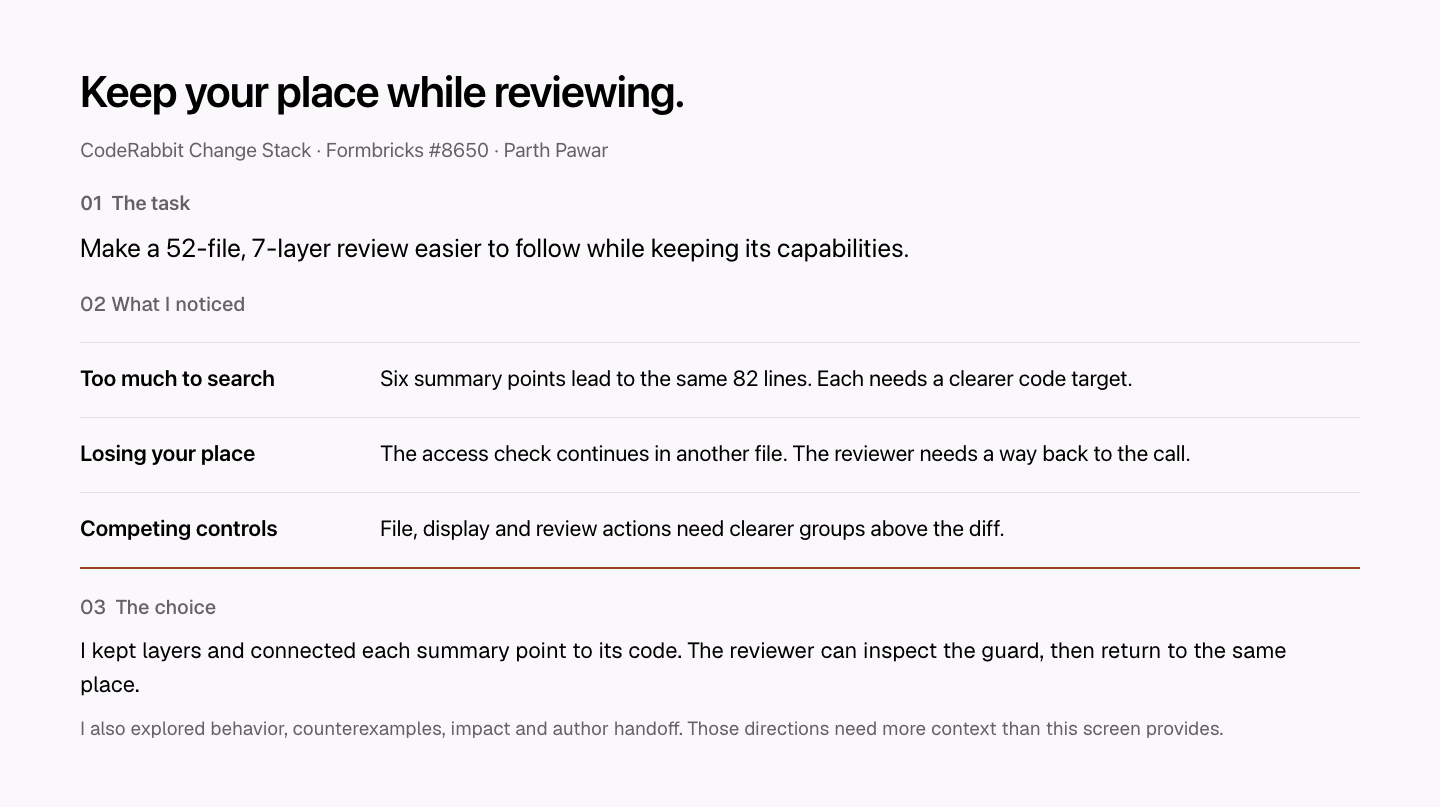
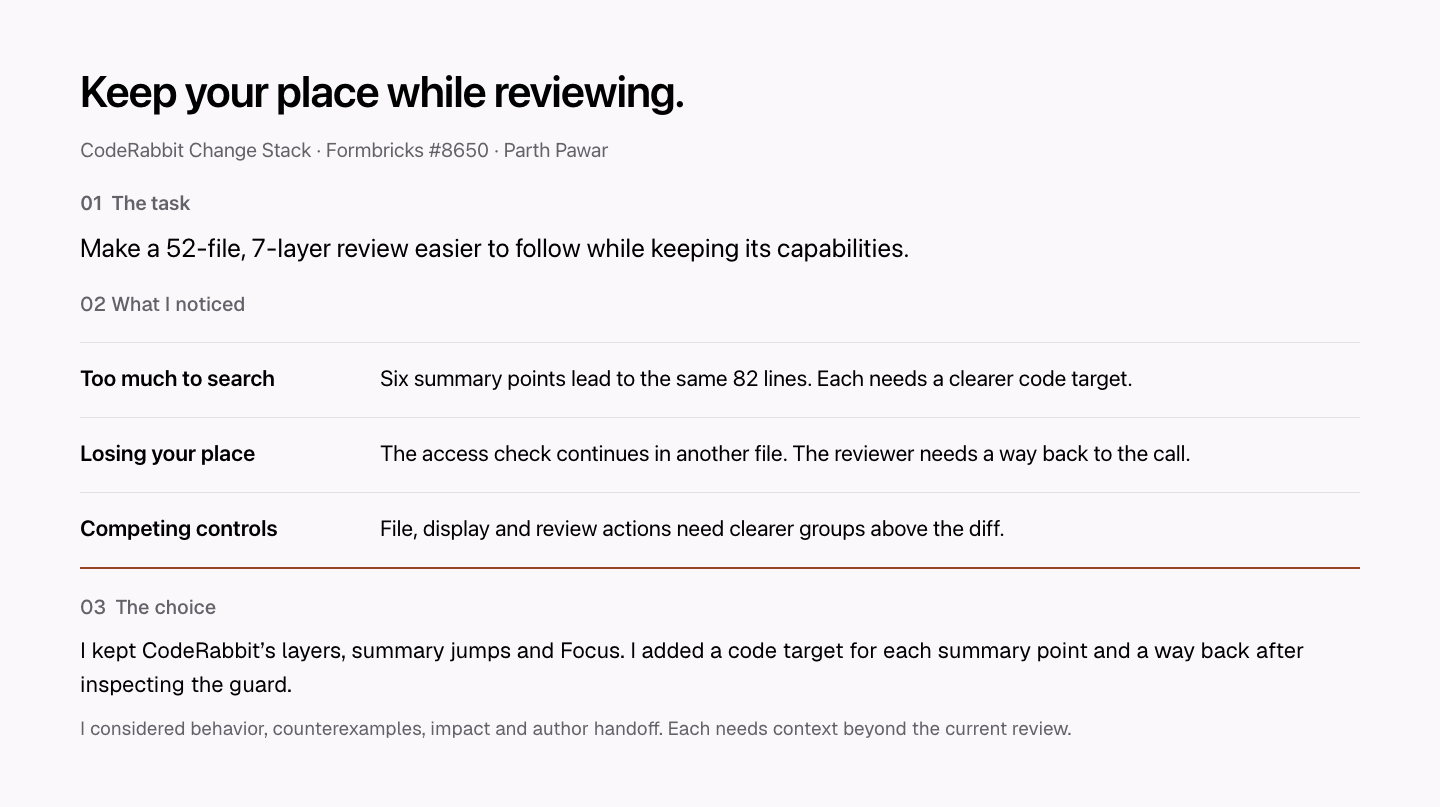
Restore orange comparison callouts from the earlier diagnosis

Changed region(s): [[0.0625, 0.7745, 0.9062, 0.8674], [0.0625, 0.8984, 0.8438, 0.9294]]

diff --git a/design/clean-submission/02a-original.jsx b/design/clean-submission/02a-original.jsx
@@ -11,20 +11,23 @@
       <div style={{ boxSizing: 'border-box', flexShrink: '0', height: '720px', position: 'relative', width: '1280px' }}>
         <div style={{ backgroundImage: 'url(https://app.paper.design/file-assets/01M5MWMDHE2E77VV689SCNHGV7/1CMP33FE7HWB1K9BCEQX09KTGB.png)', backgroundPosition: '50%', backgroundRepeat: 'no-repeat', backgroundSize: '100% 100%', boxSizing: 'border-box', height: '720px', width: '1280px' }} />
         <svg width="1280" height="720" viewBox="0 0 1280 720" xmlns="http://www.w3.org/2000/svg" style={{ position: 'absolute', left: '0px', top: '0px', display: 'inline-block' }}>
-          <path d="M922 357L954 357" fill="none" stroke="#A33C17" strokeWidth="2" />
-          <circle cx="922" cy="357" r="13" fill="#FFFFFF" stroke="#A33C17" strokeWidth="2" />
-          <text x="922" y="362" textAnchor="middle" fontFamily="Geist" fontSize="14" fill="#A33C17">
-            1
+          <rect x="948" y="343" width="327" height="29" rx="4" fill="none" stroke="#FF570A" strokeWidth="2" />
+          <path d="M934 357H947 M940 352L947 357L940 362" fill="none" stroke="#FF570A" strokeWidth="2" strokeLinecap="round" strokeLinejoin="round" />
+          <circle cx="920" cy="357" r="14" fill="#FF570A" />
+          <text x="920" y="362.5" textAnchor="middle" fontFamily="Geist,sans-serif" fontSize="16" fontWeight="600" fill="#211F24">
+             1 
           </text>
-          <path d="M924 106L886 106" fill="none" stroke="#A33C17" strokeWidth="2" />
-          <circle cx="924" cy="106" r="13" fill="#FFFFFF" stroke="#A33C17" strokeWidth="2" />
-          <text x="924" y="111" textAnchor="middle" fontFamily="Geist" fontSize="14" fill="#A33C17">
-            2
+          <rect x="262" y="93" width="670" height="77" rx="4" fill="none" stroke="#FF570A" strokeWidth="2" />
+          <path d="M915 86V93 M910 86L915 93L920 86" fill="none" stroke="#FF570A" strokeWidth="2" strokeLinecap="round" strokeLinejoin="round" />
+          <circle cx="915" cy="72" r="14" fill="#FF570A" />
+          <text x="915" y="77.5" textAnchor="middle" fontFamily="Geist,sans-serif" fontSize="16" fontWeight="600" fill="#211F24">
+             2 
           </text>
-          <path d="M720 34L650 34" fill="none" stroke="#A33C17" strokeWidth="2" />
-          <circle cx="720" cy="34" r="13" fill="#FFFFFF" stroke="#A33C17" strokeWidth="2" />
-          <text x="720" y="39" textAnchor="middle" fontFamily="Geist" fontSize="14" fill="#A33C17">
-            3
+          <rect x="98" y="4" width="623" height="43" rx="4" fill="none" stroke="#FF570A" strokeWidth="2" />
+          <path d="M741 25H722 M729 20L722 25L729 30" fill="none" stroke="#FF570A" strokeWidth="2" strokeLinecap="round" strokeLinejoin="round" />
+          <circle cx="755" cy="25" r="14" fill="#FF570A" />
+          <text x="755" y="30.5" textAnchor="middle" fontFamily="Geist,sans-serif" fontSize="16" fontWeight="600" fill="#211F24">
+             3 
           </text>
         </svg>
       </div>

diff --git a/design/clean-submission/02b-final-comparison.jsx b/design/clean-submission/02b-final-comparison.jsx
@@ -11,18 +11,23 @@
       <div style={{ boxSizing: 'border-box', flexShrink: '0', height: '720px', position: 'relative', width: '1280px' }}>
         <div style={{ backgroundImage: 'url(https://app.paper.design/file-assets/01M5MWMDHE2E77VV689SCNHGV7/1B1RMQ89XTPQG679G1NHZQ5KFR.png)', backgroundPosition: '50%', backgroundRepeat: 'no-repeat', backgroundSize: '100% 100%', boxSizing: 'border-box', height: '720px', width: '1280px' }} />
         <svg width="1280" height="720" viewBox="0 0 1280 720" xmlns="http://www.w3.org/2000/svg" style={{ position: 'absolute', left: '0px', top: '0px', display: 'inline-block' }}>
-          <path d="M933 338L967 338 M730 229L756 229 M890 96L916 96" fill="none" stroke="#A33C17" strokeWidth="2" />
-          <circle cx="933" cy="338" r="13" fill="#FFFFFF" stroke="#A33C17" strokeWidth="2" />
-          <text x="933" y="343" textAnchor="middle" fontFamily="Geist" fontSize="14" fill="#A33C17">
-            1
+          <rect x="974" y="318" width="279" height="54" rx="4" fill="none" stroke="#FF570A" strokeWidth="2" />
+          <path d="M928 338H973 M966 333L973 338L966 343" fill="none" stroke="#FF570A" strokeWidth="2" strokeLinecap="round" strokeLinejoin="round" />
+          <circle cx="914" cy="338" r="14" fill="#FF570A" />
+          <text x="914" y="343.5" textAnchor="middle" fontFamily="Geist,sans-serif" fontSize="16" fontWeight="600" fill="#211F24">
+             1 
           </text>
-          <circle cx="730" cy="229" r="13" fill="#FFFFFF" stroke="#A33C17" strokeWidth="2" />
-          <text x="730" y="234" textAnchor="middle" fontFamily="Geist" fontSize="14" fill="#A33C17">
-            2
+          <rect x="755" y="210" width="184" height="41" rx="4" fill="none" stroke="#FF570A" strokeWidth="2" />
+          <path d="M741 230H754 M747 225L754 230L747 235" fill="none" stroke="#FF570A" strokeWidth="2" strokeLinecap="round" strokeLinejoin="round" />
+          <circle cx="727" cy="230" r="14" fill="#FF570A" />
+          <text x="727" y="235.5" textAnchor="middle" fontFamily="Geist,sans-serif" fontSize="16" fontWeight="600" fill="#211F24">
+             2 
           </text>
-          <circle cx="890" cy="96" r="13" fill="#FFFFFF" stroke="#A33C17" strokeWidth="2" />
-          <text x="890" y="101" textAnchor="middle" fontFamily="Geist" fontSize="14" fill="#A33C17">
-            3
+          <rect x="918" y="58" width="178" height="41" rx="4" fill="none" stroke="#FF570A" strokeWidth="2" />
+          <path d="M904 83H917 M910 78L917 83L910 88" fill="none" stroke="#FF570A" strokeWidth="2" strokeLinecap="round" strokeLinejoin="round" />
+          <circle cx="890" cy="83" r="14" fill="#FF570A" />
+          <text x="890" y="88.5" textAnchor="middle" fontFamily="Geist,sans-serif" fontSize="16" fontWeight="600" fill="#211F24">
+             3 
           </text>
         </svg>
       </div>

diff --git a/design/clean-submission/01-task-and-decisions.jsx b/design/clean-submission/01-task-and-decisions.jsx
@@ -50,10 +50,10 @@
           03{'  '}The choice
         </div>
         <div style={{ boxSizing: 'border-box', color: '#000000', fontFamily: '"Geist", system-ui, sans-serif', fontSize: '22px', lineHeight: '34px', width: '1260px' }}>
-          I kept layers and connected each summary point to its code. The reviewer can inspect the guard, then return to the same place.
+          I kept CodeRabbit’s layers, summary jumps and Focus. I added a code target for each summary point and a way back after inspecting the guard.
         </div>
         <div style={{ boxSizing: 'border-box', color: '#65616A', fontFamily: '"Geist", system-ui, sans-serif', fontSize: '19px', lineHeight: '30px', width: '1260px' }}>
-          I also explored behavior, counterexamples, impact and author handoff. Those directions need more context than this screen provides.
+          I considered behavior, counterexamples, impact and author handoff. Each needs context beyond the current review.
         </div>
       </div>
     </div>

diff --git a/docs/verification.md b/docs/verification.md
@@ -1,3 +1,9 @@
+# Orange comparison callouts · October 23
+
+Reviewed the earlier Paper diagnosis, reasoning and original Unified evidence. Adapted its orange outlines, arrowheads and numbered markers to the current matched screenshots. Kept three callouts per image and checked their targets and label visibility. Screenshot content and scale are unchanged.
+
+The opening now credits the existing layers, summary jumps and Focus. No new pages or capability tables were added. Refreshed the three affected export pairs. Prototype behavior and rationale are unchanged.
+
 # Paper presentation polish · October 23
 
 Reviewed all four pages. Shortened the opening, comparison annotations and state captions. Removed the separate A/B-test disclaimer and timing note from the presentation; neither was a result claim. Retained the prototype coverage and lack of developer testing in one scope note. The work exceeded the original 1–2 hour timebox; this remains documented here.

diff --git a/docs/clean-paper-submission.md b/docs/clean-paper-submission.md
@@ -16,3 +16,5 @@ The submission remains prototype, Paper and one-page rationale. The public websi
 Current exports are in design/clean-submission. The manifest maps 10 artboards, including separate screen captions, to four Paper pages. Earlier exports remain recoverable in Git history.
 
 The latest edit shortens the opening and captions, removes repeated annotation wording, aligns the comparison margins, and places the interaction examples in a vertical reading order. The scope note remains beside the proposed test. Detailed process history, including the exceeded timebox, remains in the repository history; no user testing or measured improvement is claimed.
+
+The comparison uses orange outlined targets, arrowheads and numbered markers adapted from the earlier diagnosis file. The main editable screen stays free of presentation callouts.
